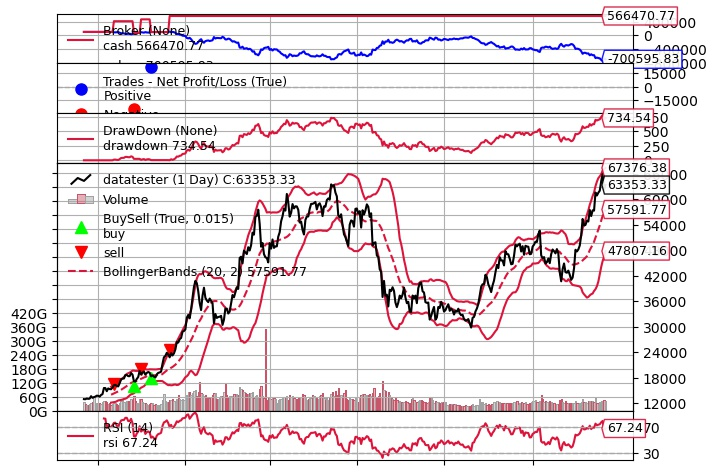
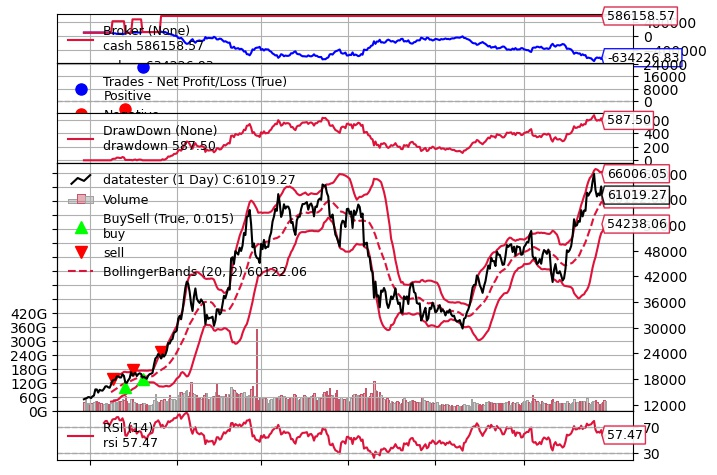
Archivo de discordbot. Falta construir las señales

Changed region(s): [[0.0921, 0.0295, 0.9819, 0.9726], [0.8898, 0.6779, 0.9512, 0.7074], [0.8898, 0.6189, 0.9512, 0.6484]]

diff --git a/strategies_tester.py b/strategies_tester.py
@@ -3,21 +3,31 @@ Este bot actualiza las bases de datos de las estrategias y envía una notificaci
 
 
 """
+
+#Paquetes
 from sqlalchemy import create_engine
 import os
 from funciones.run_saveplot_strategy import run_saveplot_strategy
-import requests
-import discord
+
 import strategies
 
+
+
+#Conección a base de datos
 engine = create_engine(f'postgresql://{os.environ.get("db_user")}:{os.environ.get("db_pass")}@{os.environ.get("db_host")}/tablero_acciones')
+
+#Limpieza de bbase
 engine.execute("DROP TABLE IF EXISTS crypto_strategy_results;")
 engine.execute("""CREATE TABLE crypto_strategy_results(market varchar, strategy_name varchar, anual_return numeric); """)
 
-
-date_today = '2021-10-22'
+#Parametros a dar en el test
+date_today = '2021-10-28'
 ticker = 'BTC-USD'
 periodo = 1
+
+
+
+#Estrategias
 #BOLLRSI
 run_saveplot_strategy(strategy= strategies.BOLLRSIStrat, ticker=ticker, strategy_name="BOLLRSI", date=date_today, engine=engine, file_name=f'images/BOLLRSI_BTCUSD.jpg', periodo = periodo)
 
@@ -30,13 +40,5 @@ run_saveplot_strategy(strategy= strategies.emaPriceCross_150, ticker=ticker, str
 run_saveplot_strategy(strategy= strategies.emaPriceCross_200, ticker=ticker, strategy_name="EMACross200", date=date_today, engine=engine, file_name=f'images/EMACross200_BTCUSD.jpg')
 
 
-
-#Sistema de notificaciones
-
-
-
-mensaje = {'username': 'Adam', 'content': "Hola"}
-
-requests.post(os.environ.get("adam_ema100"), json= mensaje)
 
 

diff --git a/adam_bot.py b/adam_bot.py
@@ -1,0 +1,48 @@
+import discord
+import requests
+import pandas.io.sql as sqlio
+import matplotlib.pyplot as plt
+import os
+from sqlalchemy import create_engine
+#Conección a la base de datos
+engine = create_engine(f'postgresql://{os.environ.get("db_user")}:{os.environ.get("db_pass")}@{os.environ.get("db_host")}/tablero_acciones')
+
+
+#Sistema de notificaciones
+
+
+
+mensaje = {'username': 'Adam', 'content': "Hola"}
+
+# Descarga la base a python para chequear si hay una señal de compra 
+df = sqlio.read_sql_query("SELECT date, close_c, ema_100, rsi_14 from crypto_prices where coin_pair = 'BTC-USDT'", engine)
+#Grafica precio y ema 100
+plt.plot(df['date'], df['close_c'])
+plt.plot(df['date'], df['ema_100'])
+#ajusta presencia
+plt.title("Precio de BTC-USDT vs EMA 100")
+plt.xticks(rotation =90)
+plt.tight_layout()
+plt.savefig('images/adam_btc-usdt.png')
+
+df_evaluation = df.tail(2)
+
+
+
+prev_price = df_evaluation.iloc[0,1]
+prev_ema = df_evaluation.iloc[0,2]
+prev_rsi = df_evaluation.iloc[0,3]
+
+last_price = df_evaluation.iloc[0,1]
+last_ema = df_evaluation.iloc[0,2]
+last_rsi = df_evaluation.iloc[0,3]
+
+#Falta crear las condiciones para evaluar y mandar el mensale
+
+
+
+
+
+
+#requests.post(os.environ.get("adam_ema100"), json= mensaje)
+

diff --git a/price_downloader.py b/price_downloader.py
@@ -31,10 +31,10 @@ for pair in pairs.market_pair:
 
 
     # Calcula los indicadores de interés
-    df = pd.DataFrame(ohlc_btcusdt, columns = ['Time', 'open_c', 'high_c', 'low_c', 'close_c', 'volume_c'])
-    df['Time'] = [datetime.fromtimestamp(float(time)/1000) for time in df['Time']]
+    df = pd.DataFrame(ohlc_btcusdt, columns = ['date', 'open_c', 'high_c', 'low_c', 'close_c', 'volume_c'])
+    df['date'] = [datetime.fromtimestamp(float(time)/1000) for time in df['date']]
     # df['date_c'] = [(float(time)/1) for time in df['date_c']]
-    df.set_index('Time', inplace=True)
+    df.set_index('date', inplace=True)
     df['coin_pair'] = pair.replace('/','-')
     ema10 = ta.ema(df["close_c"], length=10)
     df['ema_10'] = ema10
@@ -44,6 +44,8 @@ for pair in pairs.market_pair:
     df['ema_20'] = ema20
     ema50 = ta.ema(df["close_c"], length=50)
     df['ema_50'] = ema50
+    ema100 = ta.ema(df["close_c"], length=100)
+    df['ema_100'] = ema100
     ema200 = ta.ema(df["close_c"], length=200)
     df['ema_200'] = ema200
     rsi14 = ta.rsi(df["close_c"], length=14)
